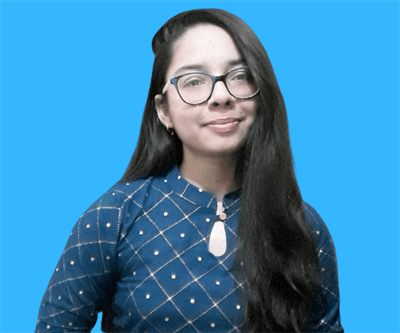
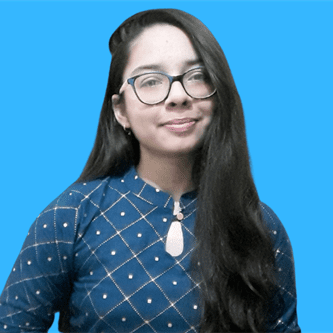
fix: Schedule section, square images

diff --git a/components/NavigationBar.vue b/components/NavigationBar.vue
@@ -4,26 +4,29 @@
       <div class="navigation-contents">
         <!-- Branding area -->
         <div class="branding">
-          <a href="/"
-            ><h1 class="brand-text">
+          <NuxtLink to="/">
+            <h1 class="brand-text">
               HACK<span class="brand-char-o">O</span>N<span
                 class="brand-edition"
                 >2.0</span
               >
-            </h1></a
-          >
+            </h1>
+          </NuxtLink>
         </div>
         <!-- Menu area -->
         <div class="menu-area">
           <ul class="nav-links">
             <li>
-              <a href="/team">Team</a>
+              <NuxtLink to="/team">Team</NuxtLink>
             </li>
             <li>
               <a href="/#speakers">Speakers</a>
             </li>
             <li>
-              <a href="/prizes">Prizes</a>
+              <NuxtLink to="/#schedule">Schedule</NuxtLink>
+            </li>
+            <li>
+              <NuxtLink to="/prizes">Prizes</NuxtLink>
             </li>
             <li>
               <a href="/#workshops">Workshops</a>
@@ -117,7 +120,7 @@ export default {
       }
 
       .register-button {
-        @include respond-below(md) {
+        @media (max-width: 1070px) {
           display: none;
         }
         .cta-button {

diff --git a/components/ScheduleSection.vue b/components/ScheduleSection.vue
@@ -9,8 +9,7 @@
           :class="[index === selectedIndex ? 'activeDate' : '', 'allHeaders']"
           @click="changeShownSchedule(index)"
         >
-          <div class="headers">{{ schedule.header.split(",")[0] }}</div>
-          <br />
+          <div class="headers">{{ schedule.header.split(" -")[0] }}</div>
         </span>
         <!-- <div v-for="(schedule, index) in scheduleComplete" :key="index"> -->
         <div class="daily-schedule">
@@ -184,7 +183,7 @@ export default {
     padding: 10px 0;
 
     .allHeaders {
-      margin-left: 0.5em;
+      // margin-left: 0.5em;
 
       @media (max-width: 465px) {
         margin-left: 0em;
@@ -192,27 +191,18 @@ export default {
 
       &.activeDate {
         .headers {
-          background-color: #e58ab2;
+          background-color: #fff;
+        color: black;
         }
       }
 
       .headers {
         margin-top: 0.2em;
         display: inline-block;
-        color: black;
         padding: 0.2em 0.8em;
-        border-radius: 1.5em;
-        background-color: #7fc1c8;
+        background-color: #313742;
         font-family: Sen;
         cursor: pointer;
-      }
-
-      br {
-        display: none;
-
-        @media (max-width: 465px) {
-          display: block;
-        }
       }
     }
 

diff --git a/components/WorkshopsSection.vue b/components/WorkshopsSection.vue
@@ -291,12 +291,10 @@ export default {
       this.isModalVisible = true;
       this.modalData = index;
       document.querySelector("body").style.overflow = "hidden";
-      // document.querySelector(".workshops").classList.add = "modalOpen";
     },
     closeModal() {
       this.isModalVisible = false;
       document.querySelector("body").style.overflow = "initial";
-      // document.querySelector(".workshops").classList.remove = "modalOpen";
     },
   },
 };

diff --git a/components/Footer.vue b/components/Footer.vue
@@ -17,9 +17,9 @@
 
         <div class="panel">
           <h4 class="title">About HackOn Foundation</h4>
-          <a href="/coc">Event Code Of Conduct</a>
+          <NuxtLink to="/coc">Event Code Of Conduct</NuxtLink>
           <a href="/mlhcoc">MLH Code Of Conduct</a>
-          <a href="/team">Team Behind HackOn</a>
+          <NuxtLink to="/team">Team Behind HackOn</NuxtLink>
         </div>
 
         <div class="panel">

diff --git a/components/PolygonModal.vue b/components/PolygonModal.vue
@@ -57,7 +57,7 @@ export default {
               eligible for Incubation and Marketing Support from Polygon.
               <br /><br />
               To learn more, visit
-              <a href="/polygon">hackon.tech/polygon</a>
+              <NuxtLink to="/polygon">hackon.tech/polygon</NuxtLink>
             </div>
           </div>
         </section>

diff --git a/pages/index.vue b/pages/index.vue
@@ -6,8 +6,8 @@
     <RiddleSection />
     <TracksSection />
     <PrizesSection />
-    <SpeakersSection />
     <ScheduleSection />
+    <SpeakersSection />
     <WorkshopsSection />
     <SponsorsSection />
     <CommunityPartnersSection />
